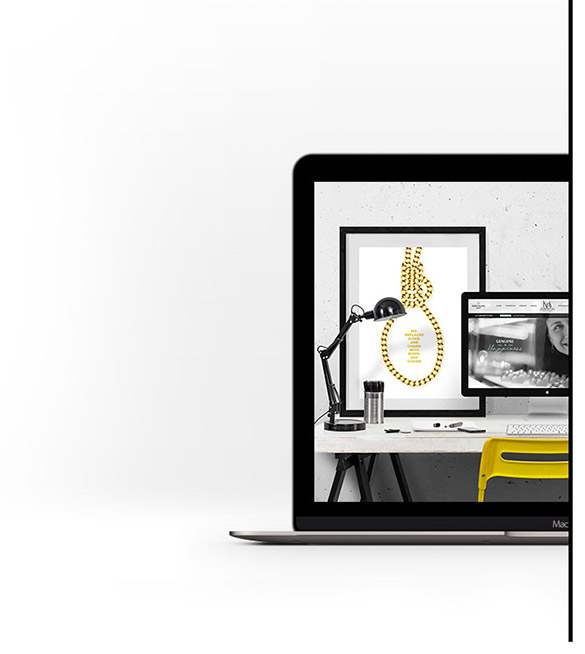
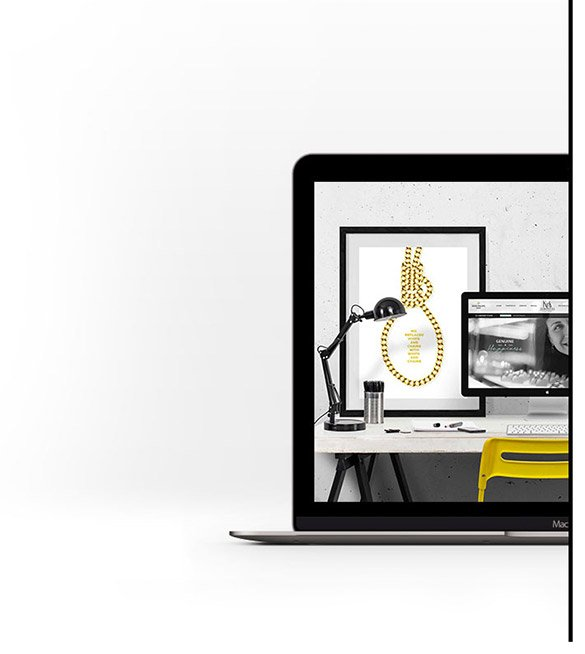
optimized images and js

Changed region(s): [[0.6462, 0.367, 0.7692, 0.6116], [0.8, 0.6422, 0.9846, 0.7645]]

diff --git a/public/js/jemiahsius.js b/public/js/jemiahsius.js
@@ -1,33 +1,1 @@
-// Jemiah Sius JavaScript
-
-(function($) {
-    "use strict"; // Start of use strict
-
-    // jQuery for page scrolling feature - requires jQuery Easing plugin
-    $('a.page-scroll').bind('click', function(event) {
-        var $anchor = $(this);
-        $('html, body').stop().animate({
-            scrollTop: ($($anchor.attr('href')).offset().top - 50)
-        }, 1250, 'easeInOutExpo');
-        event.preventDefault();
-    });
-
-    // Highlight the top nav as scrolling occurs
-    $('body').scrollspy({
-        target: '.navbar-fixed-top',
-        offset: 51
-    });
-
-    // Closes the Responsive Menu on Menu Item Click
-    $('.navbar-collapse ul li a:not(.dropdown-toggle)').click(function() {
-        $('.navbar-toggle:visible').click();
-    });
-
-    // Offset for Main Navigation
-    $('#mainNav').affix({
-        offset: {
-            top: 100
-        }
-    })
-
-})(jQuery); // End of use strict
+(function($){"use strict";$('a.page-scroll').bind('click',function(event){var $anchor=$(this);$('html, body').stop().animate({scrollTop:($($anchor.attr('href')).offset().top-50)},1250,'easeInOutExpo');event.preventDefault();});$('body').scrollspy({target:'.navbar-fixed-top',offset:51});$('.navbar-collapse ul li a:not(.dropdown-toggle)').click(function(){$('.navbar-toggle:visible').click();});$('#mainNav').affix({offset:{top:100}})})(jQuery);
